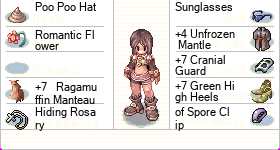
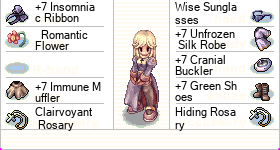
Final touches on interface system

diff --git a/ragnarok/model/equip_model.py b/ragnarok/model/equip_model.py
@@ -7,6 +7,7 @@ from ragnarok.main.exporter import equip_db, job70, shield_db, shoes_db, armor_d
 from ragnarok.model.dead_gear import dead_gear_list as nullgear
 from ragnarok.model.dead_gear import dead_card as nullcard
 
+
 # nullcard = 4700
 # nullgear = [2139, 2393, 2447, 2511, 2709, 5432, 5433, 5435]
 
@@ -277,6 +278,10 @@ class PlayerGear:
                         'headmid': self.gt[1].id,
                         'headlow': self.gt[2].id}
 
+        id_refine_card = {self.gt[0].id: (self.gt[0].refining, self.gt[0].card),
+                          self.gt[1].id: (self.gt[1].refining, self.gt[1].card),
+                          self.gt[2].id: (self.gt[2].refining, self.gt[2].card)}
+
         priority_dict = {'headtop': self.gt[0].get_hat_priority(),
                          'headmid': self.gt[1].get_hat_priority(),
                          'headlow': self.gt[2].get_hat_priority()}
@@ -287,7 +292,11 @@ class PlayerGear:
                           priority_ids[priority_podium[2]]]
 
         for h in priority_queue:
-            self.equip_item(Headgear(equip_db[h]))
+            aux_head = Headgear(equip_db[h])
+            aux_head.refine(id_refine_card[h][0])
+            if id_refine_card[h][1] is not None:
+                aux_head.insert_card(id_refine_card[h][1]['Id'])
+            self.equip_item(aux_head)
 
     def equip_item(self, item: BaseGear):
         equipable = self.is_equipable(item)
@@ -498,7 +507,7 @@ class PlayerGear:
 #              "accessory1": (2626, 0, 4044),
 #              "accessory2": (2608, 0, 0)}
 
-text_dict = {"headgear1": ('Diadem', 0, 0),
+text_dict = {"headgear1": ('Poo Poo Hat', 0, 0),
              "headgear2": ('Sunglasses [1]', 0, 'Willow Card'),
              "headgear3": ('Cigarette', 0, 0),
              "weapon": None,
@@ -509,10 +518,23 @@ text_dict = {"headgear1": ('Diadem', 0, 0),
              "accessory1": ('Clip [1]', 0, 'Sage Worm Card'),
              "accessory2": ('Silver Ring', 0, 0)}
 
-
-gear_dict = dict_name_to_dict_id(text_dict)
+# gear_dict = dict_name_to_dict_id(text_dict)
+gear_dict = {'headgear1': [2289, 0, 0],
+             'headgear2': [2202, 0, 4010],
+             'headgear3': [2267, 0, 0],
+             'weapon': None,
+             'shield': [2104, 0, 4012],
+             'shoes': [2405, 0, 0],
+             'armor': [2320, 0, 4098],
+             'robe': [2502, 0, 4015],
+             'accessory1': [2607, 0, 4219],
+             'accessory2': [2611, 0, 0]}
 
 pe = PlayerGear(gear_dict, 'knight', 99)
+
+# pe.headmid.insert_card(4010)
+
+pe.print_gear()
 
 # # pe.equip_item(pe.create_item_with_id(2104))
 # pe.unequip_noble_hats()

diff --git a/pyflask/app/controllers/default.py b/pyflask/app/controllers/default.py
@@ -144,17 +144,6 @@ def calcframe():
         pi['complex_info'] = p1.export_build()
         igen = InterfaceGenerator(p1)
         igen.generate_interface()
-        # tt = {"headgear1": ('(No Headtop)', 0, 0),
-        #       "headgear2": ('Sunglasses [1]', 0, 'Willow Card'),
-        #       "headgear3": ('Cigarette', 0, 0),
-        #       "weapon": None,
-        #       "shield": ('Buckler [1]', 0, 'Thief Bug Egg Card'),
-        #       "shoes": ('Sandals [1]', 0, 'Matyr Card'),
-        #       "armor": ('Formal Suit [1]', 0, 'Dokebi Card'),
-        #       "robe": ('Hood [1]', 0, 'Condor Card'),
-        #       "accessory1": ('Clip [1]', 0, 'Sage Worm Card'),
-        #       "accessory2": ('Silver Ring', 0, 0)}
-        # igen.generate_equip_details(tt, 'female')
         igen.generate_equip_details(gear_skeleton, 'female')
     return render_template('calculator_frame.html',
                            form=form,

diff --git a/ragnarok/resources/interface/interface_generator.py b/ragnarok/resources/interface/interface_generator.py
@@ -188,6 +188,8 @@ class InterfaceGenerator:
             if not pe.accessory2.is_dead_gear():
                 draw_multiline('{}'.format(pe.accessory2.export_text()), 175, 105, font_db[12])
 
+        print('meu pai amado {}'.format(pe.headmid.export_text()))
+
         download_queue = self.check_icons(list(pe.export_id_table().values()))
         if download_queue is not False:
             self.download_icons(download_queue)
